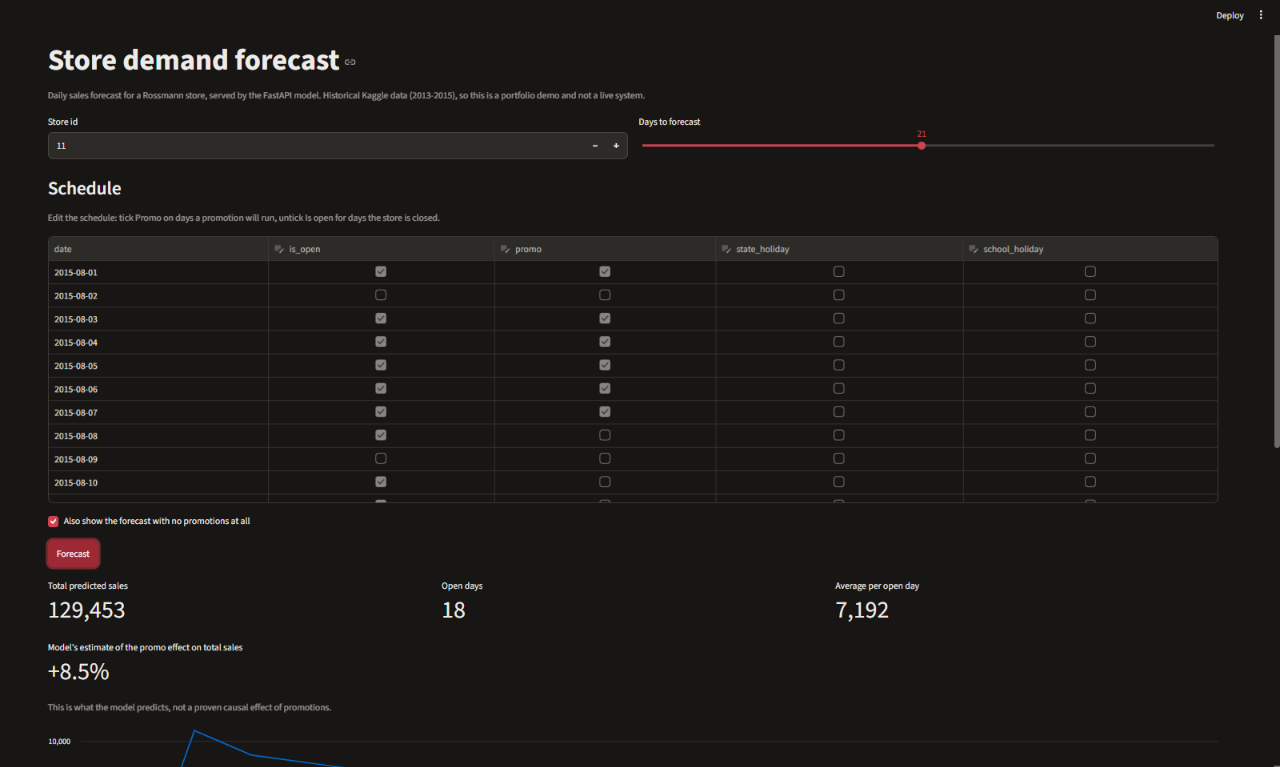
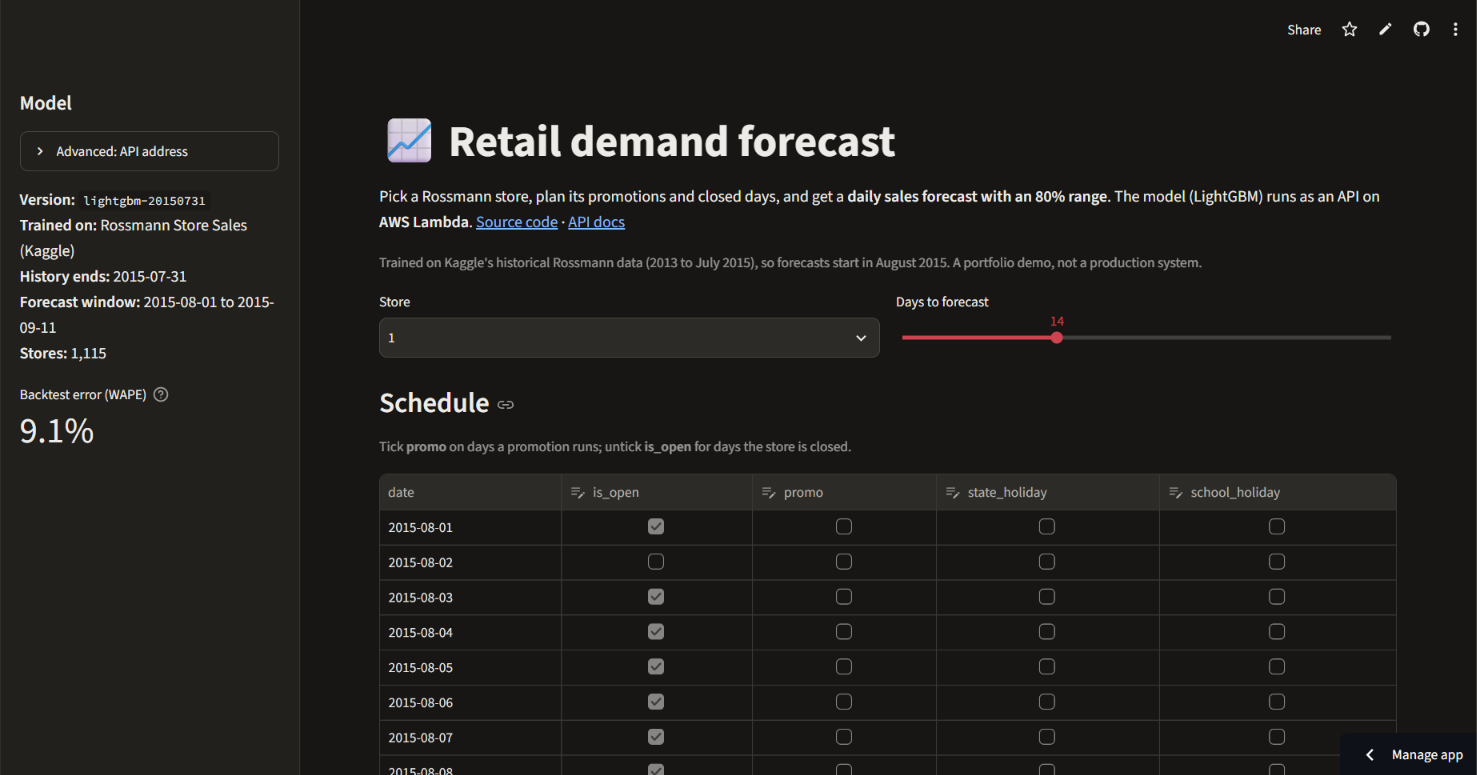
docs: link the live Streamlit demo; new demo screenshot

diff --git a/README.md b/README.md
@@ -6,7 +6,7 @@
 
 Forecasts daily sales for **1,115 Rossmann drugstores, up to 42 days ahead**, with an 80% range, and serves them through a **live API on AWS Lambda** and an interactive demo.
 
-🌐 **[Live API](https://hgdnakicif.execute-api.ap-southeast-2.amazonaws.com)** (interactive docs) &nbsp;·&nbsp; 📄 **[Deployment guide](docs/deploy-aws.md)** &nbsp;·&nbsp; 📝 **[Changelog](CHANGELOG.md)**
+🚀 **[Live demo](https://retail-demand-forecasting-93eujwpzasnqbm9b9nqd7e.streamlit.app/)** &nbsp;·&nbsp; 🌐 **[Live API](https://hgdnakicif.execute-api.ap-southeast-2.amazonaws.com)** (interactive docs) &nbsp;·&nbsp; 📄 **[Deployment guide](docs/deploy-aws.md)** &nbsp;·&nbsp; 📝 **[Changelog](CHANGELOG.md)**
 
 ![Python](https://img.shields.io/badge/Python-3.12-3776AB?style=for-the-badge&logo=python&logoColor=white)
 ![LightGBM](https://img.shields.io/badge/LightGBM-Gradient%20Boosting-1C7C54?style=for-the-badge)
@@ -45,6 +45,8 @@ Forecasts daily sales for **1,115 Rossmann drugstores, up to 42 days ahead**, wi
 > **Scope:** the model is trained on historical Kaggle data (2013 to July 2015) and served live on AWS as a demo, so its forecasts cover August–September 2015. Results describe this dataset and this backtest only.
 
 ## 🖥 Demo
+
+**[Open the live demo](https://retail-demand-forecasting-93eujwpzasnqbm9b9nqd7e.streamlit.app/)** (hosted on Streamlit Community Cloud; the first load can take ~20 s while the app and the AWS Lambda wake up).
 
 An interactive **Streamlit** page: pick a store, edit the schedule (promotion days, closed days, holidays), and see the forecast with its range, optionally next to the same days without promotions. It calls the API; see [hosting it on Streamlit Community Cloud](docs/streamlit-cloud.md).
 

diff --git a/docs/streamlit-cloud.md b/docs/streamlit-cloud.md
@@ -1,5 +1,7 @@
 # Hosting the demo on Streamlit Community Cloud
 
+Live: https://retail-demand-forecasting-93eujwpzasnqbm9b9nqd7e.streamlit.app/
+
 The demo (`app/streamlit_app.py`) only calls the API, so it is light and free to host.
 
 1. Sign in at [share.streamlit.io](https://share.streamlit.io) with GitHub.
